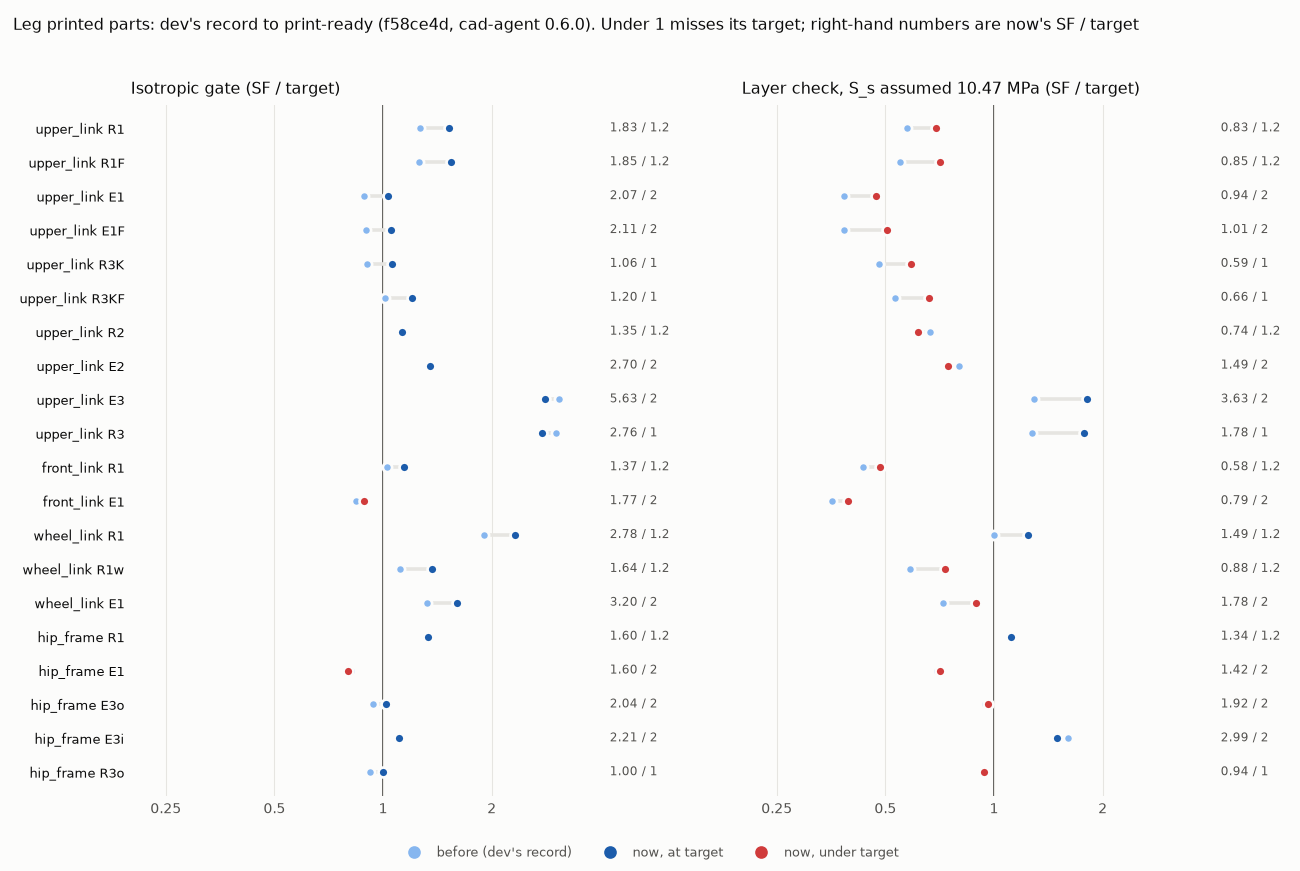
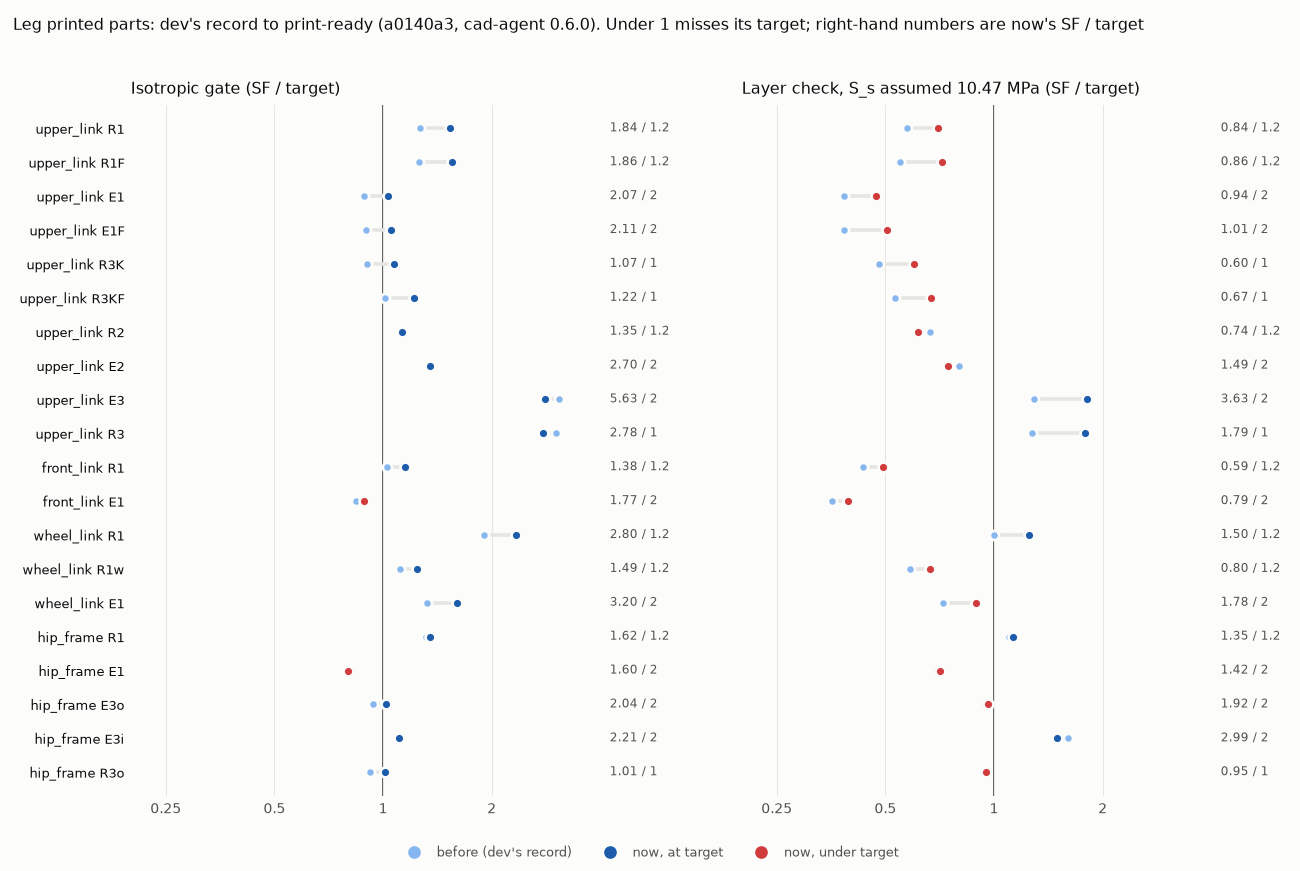
Leg #8: the leg screen, its sheets and the print package's blocks from the new record
research/leg-preprint/screen.py and figure.py on the re-solved leg FEA.

Changed region(s): [[0.3077, 0.0, 0.8923, 0.062]]

diff --git a/docs/leg-print-package.md b/docs/leg-print-package.md
@@ -135,16 +135,16 @@ Run these on the bench with the motors unpowered, before any powered rig test. S
 | Step | Load at the axle | Hold | Pass |
 |---|---|---|---|
 | P1 | 460 N vertical (E1's axle load: 2.5 x standing) | 10 min | after the seating cycle, it returns to within 0.05 mm of its start; no whitening, cracking or creaking |
-| P2 | 945 N vertical (R1's axle load, applied in the folded posture) | 1 min | set after unloading under 0.1 mm; the same visual checks; the torque marks have not moved |
+| P2 | 938 N vertical (R1's axle load, applied in the folded posture) | 1 min | set after unloading under 0.1 mm; the same visual checks; the torque marks have not moved |
 | P3 | 10 % of P2 sideways, at the tyre's mid-plane | 1 min | the same |
 
-In the folded posture the axle load goes where R3's does, and P2 is 0.52 of R3's 1831 N. Scaled from the R3 rows (generated by `screen.py` from the same record):
+In the folded posture the axle load goes where R3's does, and P2 is 0.52 of R3's 1812 N. Scaled from the R3 rows (generated by `screen.py` from the same record):
 
 | Part | Case | Gate at P2 | Layer check at P2 | Left-out edge at P2 |
 |---|---|---|---|---|
-| upper_link | R3K | 2.05 | 1.14 | pad rim 1.28 |
-| upper_link | R3KF | 2.32 | 1.28 | pad rim 1.36 |
-| hip_frame | R3o | 1.94 | 1.82 | pin band 1.01 |
+| upper_link | R3K | 2.07 | 1.16 | pad rim 1.29 |
+| upper_link | R3KF | 2.36 | 1.29 | pad rim 1.37 |
+| hip_frame | R3o | 1.95 | 1.83 | pin band 1.00 |
 
 So P2 brings the knee stubs and the stop pins' bands near SF 1 in the folded posture: apply it in steps of a quarter, listening and watching the indicator, and stop at the first whitening.
 
@@ -168,35 +168,35 @@ locking each motor's output adapter to the hip frame; that bar is not drawn yet.
 
 <!-- gen:final-record -->
 
-Generated by `research/leg-preprint/screen.py` from `exports/leg/fea/summary.json` and `research/leg-preprint/evidence/leg-layer-check-print-ready.json` (cad-agent 0.6.0, 4 mm mesh, source f58ce4d), against dev's record (`research/fea-v060-29/evidence/leg-layer-check.json`). The printed parts' rows are below.
+Generated by `research/leg-preprint/screen.py` from `exports/leg/fea/summary.json` and `research/leg-preprint/evidence/leg-layer-check-print-ready.json` (cad-agent 0.6.0, 4 mm mesh, source a0140a3), against dev's record (`research/fea-v060-29/evidence/leg-layer-check.json`). The printed parts' rows are below.
 
 - **Isotropic gate:** 18 of 20 rows at target, against 13 before.
 - **Layer check:** 5 of 20 rows at target, against 5 before. It assumes the interlayer shear strength S_s = S_z / sqrt(3) = 10.47 MPa; nobody has measured it.
-- **Mass basis:** the loads are the 37.5 kg design robot's (`cad/leg_studies.py` ROBOT_KG). At the 38.69 kg this branch weighs (section 9) every SF falls by 0.969: hip_frame E3o 2.04 → **1.98** (target 2) and hip_frame R3o 1 → **0.97** (target 1) would then miss their targets. They are counted at target above, but they sit at the limit.
-- **Mesh check (the hip frame, `research/leg-preprint/evidence/hip-frame-print-ready.json`):** the gate at 4 mm and at 3 mm: R1 1.6 → 1.36, E1 1.6 → **1.4**, E3o 2.04 → 2.01, E3i 2.21 → 2.39, R3o 1 → **0.98**. The gate is not converged, so read every frame row as a screen; bold rows miss their target at 3 mm.
+- **Mass basis:** the loads are the 37.5 kg design robot's (`cad/leg_studies.py` ROBOT_KG). At the 38.69 kg this branch weighs (section 9) every SF falls by 0.969: hip_frame E3o 2.04 → **1.98** (target 2) and hip_frame R3o 1.01 → **0.98** (target 1) would then miss their targets. They are counted at target above, but they sit at the limit.
+- **Mesh check (the hip frame, `research/leg-preprint/evidence/hip-frame-print-ready.json`):** the gate at 4 mm and at 3 mm: R1 1.62 → 1.37, E1 1.6 → **1.4**, E3o 2.04 → 2.01, E3i 2.21 → 2.39, R3o 1.01 → **0.99**. The gate is not converged, so read every frame row as a screen; bold rows miss their target at 3 mm.
 
 | Part | Case | Target | Gate: before → now | Layer check: before → now | Printed strength that would pass (MPa) | Worst corner |
 |---|---|---|---|---|---|---|
-| upper_link | R1 | 1.2 | 1.52 → 1.83 | **0.69** → **0.83** | S_s ≥ 26.4 (2.5× assumed) | knee eye stub root (r 21.3 from the knee axis, 2.6 mm into the stub) |
-| upper_link | R1F | 1.2 | 1.51 → 1.85 | **0.66** → **0.85** | S_s ≥ 17.6 (1.7× assumed) | knee eye stub root (r 21.4 from the knee axis, 2.5 mm into the stub) |
+| upper_link | R1 | 1.2 | 1.52 → 1.84 | **0.69** → **0.84** | S_s ≥ 25.5 (2.4× assumed) | knee eye stub root (r 21.3 from the knee axis, 2.6 mm into the stub) |
+| upper_link | R1F | 1.2 | 1.51 → 1.86 | **0.66** → **0.86** | S_s ≥ 17.4 (1.7× assumed) | knee eye stub root (r 21.4 from the knee axis, 2.5 mm into the stub) |
 | upper_link | E1 | 2 | **1.77** → 2.07 | **0.77** → **0.94** | S_z ≥ 38.6 (2.1× assumed; tension) | knee eye stub root (r 21.7 from the knee axis, 2.1 mm into the stub) |
 | upper_link | E1F | 2 | **1.79** → 2.11 | **0.77** → **1.01** | S_z ≥ 35.9 (2.0× assumed; tension) | knee eye stub root (r 21.8 from the knee axis, 2.1 mm into the stub) |
-| upper_link | R3K | 1 | **0.9** → 1.06 | **0.48** → **0.59** | S_s ≥ 17.6 (1.7× assumed) | knee eye stub root (r 21.8 from the knee axis, 2.1 mm into the stub) |
-| upper_link | R3KF | 1 | 1.01 → 1.2 | **0.53** → **0.66** | S_s ≥ 15.9 (1.5× assumed) | knee eye stub root (r 21.7 from the knee axis, 2.1 mm into the stub) |
+| upper_link | R3K | 1 | **0.9** → 1.07 | **0.48** → **0.6** | S_s ≥ 17.4 (1.7× assumed) | knee eye stub root (r 21.8 from the knee axis, 2.1 mm into the stub) |
+| upper_link | R3KF | 1 | 1.01 → 1.22 | **0.53** → **0.67** | S_s ≥ 15.7 (1.5× assumed) | knee eye stub root (r 21.7 from the knee axis, 2.1 mm into the stub) |
 | upper_link | R2 | 1.2 | 1.37 → 1.35 | **0.8** → **0.74** | S_s ≥ 17 (1.6× assumed) | hub, the Ø40 spigot recess's rim on the inner face (r 20.0) |
 | upper_link | E2 | 2 | 2.73 → 2.7 | **1.6** → **1.49** | S_s ≥ 14.1 (1.3× assumed) | hub, the Ø40 spigot recess's rim on the inner face (r 20.0) |
 | upper_link | E3 | 2 | 6.13 → 5.63 | 2.58 → 3.63 |  | hub (r 23.2 from the motor axis), inner face |
-| upper_link | R3 | 1 | 3.01 → 2.76 | 1.27 → 1.78 |  | hub (r 23.2 from the motor axis), inner face |
-| front_link | R1 | 1.2 | 1.23 → 1.37 | **0.52** → **0.58** | S_z ≥ 37.5 (2.1× assumed; tension) | apex eye ring (r 45.0 from the apex axis, y 48.0) |
+| upper_link | R3 | 1 | 3.01 → 2.78 | 1.27 → 1.79 |  | hub (r 23.2 from the motor axis), inner face |
+| front_link | R1 | 1.2 | 1.23 → 1.38 | **0.52** → **0.59** | S_z ≥ 36.9 (2.0× assumed; tension) | apex eye ring (r 45.0 from the apex axis, y 48.0) |
 | front_link | E1 | 2 | **1.68** → **1.77** | **0.71** → **0.79** | S_z ≥ 45.9 (2.5× assumed; tension) | apex eye ring (r 45.0 from the apex axis, y 48.0) |
-| wheel_link | R1 | 1.2 | 2.28 → 2.78 | 1.2 → 1.49 |  | apex hub root (r 37.5 from the apex axis, at the link's inner face y 54.0) |
-| wheel_link | R1w | 1.2 | 1.34 → 1.64 | **0.7** → **0.88** | S_s ≥ 36.3 (3.5× assumed) | apex hub root (r 37.5 from the apex axis, at the link's inner face y 54.0) |
+| wheel_link | R1 | 1.2 | 2.28 → 2.8 | 1.2 → 1.5 |  | apex hub root (r 37.5 from the apex axis, at the link's inner face y 54.0) |
+| wheel_link | R1w | 1.2 | 1.34 → 1.49 | **0.7** → **0.8** | S_z ≥ 27.2 (1.5× assumed; tension) | apex hub root (r 37.5 from the apex axis, at the link's inner face y 54.0) |
 | wheel_link | E1 | 2 | 2.65 → 3.2 | **1.44** → **1.78** | S_s ≥ 12.1 (1.2× assumed) | knee boss root (r 32.6 from the knee axis, y 51.3) |
-| hip_frame | R1 | 1.2 | 1.58 → 1.6 | 1.32 → 1.34 |  | flange root, inner face (x -74, y -26.5) |
+| hip_frame | R1 | 1.2 | 1.58 → 1.62 | 1.32 → 1.35 |  | flange root, inner face (x -74, y -26.5) |
 | hip_frame | E1 | 2 | **1.63** → **1.6** | **1.39** → **1.42** | S_z ≥ 25.5 (1.4× assumed; tension) | web, motor side (x 95, z -59) |
 | hip_frame | E3o | 2 | **1.88** → 2.04 | **1.89** → **1.92** | S_s ≥ 12.2 (1.2× assumed) | flange root, inner face (x 95, y -65.1) |
 | hip_frame | E3i | 2 | 2.18 → 2.21 | 3.2 → 2.99 |  | web, motor side (x 95, z -59) |
-| hip_frame | R3o | 1 | **0.92** → 1 | **0.93** → **0.94** | S_s ≥ 13.2 (1.3× assumed) | flange root, inner face (x 95, y -65.1) |
+| hip_frame | R3o | 1 | **0.92** → 1.01 | **0.93** → **0.95** | S_s ≥ 12.8 (1.2× assumed) | flange root, inner face (x 95, y -65.1) |
 
 Bold: under target. The strength column is what coupon C4 has to show for the row to pass as drawn: an interlayer shear strength S_s (with S_z at the assumed 18.13 MPa), or, where through-layer tension alone fails, a through-layer strength S_z (with S_s scaled with it). A row whose number C4 does not reach needs geometry or metal (section 10); a row that needs more than about twice the assumed value is unlikely to pass, so read those as the parts most likely to need it. Each number holds at the row's worst corner only, so it is a lower bound.
 
@@ -204,15 +204,15 @@ Bold: under target. The strength column is what coupon C4 has to show for the ro
 
 | Part | Case | Target | Gate as judged | With the left-out edge |
 |---|---|---|---|---|
-| upper_link | R1 | 1.2 | 1.83 | pad rim **1** |
-| upper_link | R1F | 1.2 | 1.85 | pad rim **0.95** |
+| upper_link | R1 | 1.2 | 1.84 | pad rim **1.01** |
+| upper_link | R1F | 1.2 | 1.86 | pad rim **0.96** |
 | upper_link | E1 | 2 | 2.07 | pad rim **1.16** |
 | upper_link | E1F | 2 | 2.11 | pad rim **1.13** |
-| upper_link | R3K | 1 | 1.06 | pad rim **0.66** |
-| upper_link | R3KF | 1 | 1.2 | pad rim **0.7** |
+| upper_link | R3K | 1 | 1.07 | pad rim **0.67** |
+| upper_link | R3KF | 1 | 1.22 | pad rim **0.71** |
 | hip_frame | E3o | 2 | 2.04 | pin band **1.06** |
 | hip_frame | E3i | 2 | 2.21 | pin band **1.34** |
-| hip_frame | R3o | 1 | 1 | pin band **0.52** |
+| hip_frame | R3o | 1 | 1.01 | pin band **0.52** |
 
 The plots in the summary show these edges red. Bench test B4b (the hub on its adapter) and proof load P2 (the pins, section 7) are the physical checks.
 

diff --git a/research/leg-preprint/screen.md b/research/leg-preprint/screen.md
@@ -101,7 +101,7 @@ Today: 8 x M5 x 40 into the tapped 6061 adapter, heads on 24.5 mm of PA6-CF (Ø8
 
 High-stress because:
 
-- the hub's edge lifts at 104 N m (at 1200 N a screw); R1 puts 115.7 and R3 190.1 N m on it
+- the hub's edge lifts at 104 N m (at 1200 N a screw); R1 puts 114.9 and R3 188.1 N m on it
 - 45.5 MPa under the heads against the 25 MPa sustained screen
 
 | Option | Screen |
@@ -140,7 +140,7 @@ Today: two DIN 179 sleeves pressed into the eye (already metal bushings), the sh
 High-stress because:
 
 - the eye stub's root: layer check E1 0.77 against 2.0 (the worst in the leg)
-- R3: 169.1 N m at the sleeves, 38.1 MPa on the eye (SF 1.05)
+- R3: 167.3 N m at the sleeves, 37.7 MPa on the eye (SF 1.06)
 
 | Option | Screen |
 |---|---|
@@ -176,7 +176,7 @@ High-stress because:
 
 - the wheel link's hub root: layer check R1w 0.7 against 1.2
 - the front link's apex ring: E1 0.71 against 2.0
-- bearings fine (s0 2.76 in R3)
+- bearings fine (s0 2.79 in R3)
 
 | Option | Screen |
 |---|---|
@@ -270,10 +270,10 @@ every R3 margin is the undamped cut onto the stops; the RS-04's power-off dampin
 
 | Scenario | Axle N | Knee pin N | Stop N m | Gearbox N m |
 |---|---|---|---|---|
-| drop_150 | 1605.0 | 975.3 | 0.0 | 47.6 |
-| jump_peak | 1649.8 | 1304.6 | 0.0 | 109.8 |
-| power_off | 1830.7 | 2048.3 | 122.3 | 29.0 |
-| power_off_damped | 318.7 | 364.4 | 15.3 | 14.8 |
+| drop_150 | 1761.3 | 1077.8 | 0.0 | 50.0 |
+| jump_peak | 1619.7 | 1293.3 | 0.0 | 109.8 |
+| power_off | 1811.8 | 2027.6 | 121.5 | 28.9 |
+| power_off_damped | 316.8 | 362.9 | 15.1 | 14.8 |
 
 ## Print-first coupons
 
